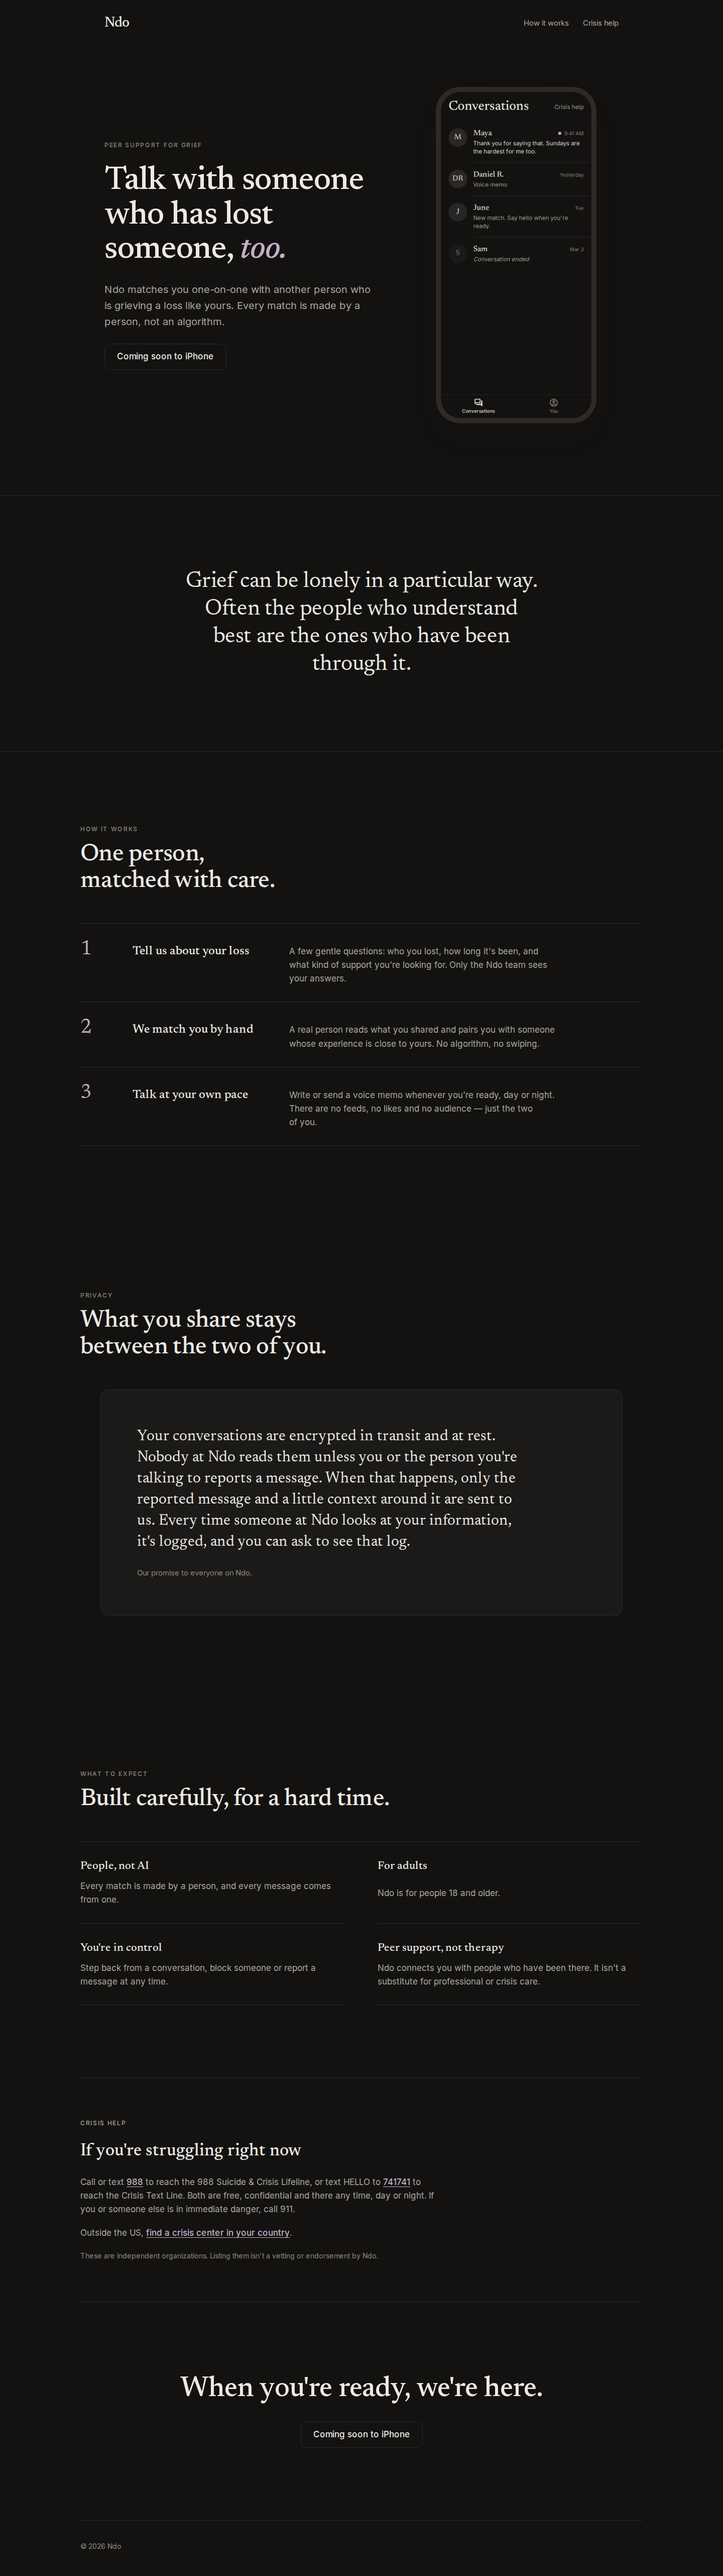
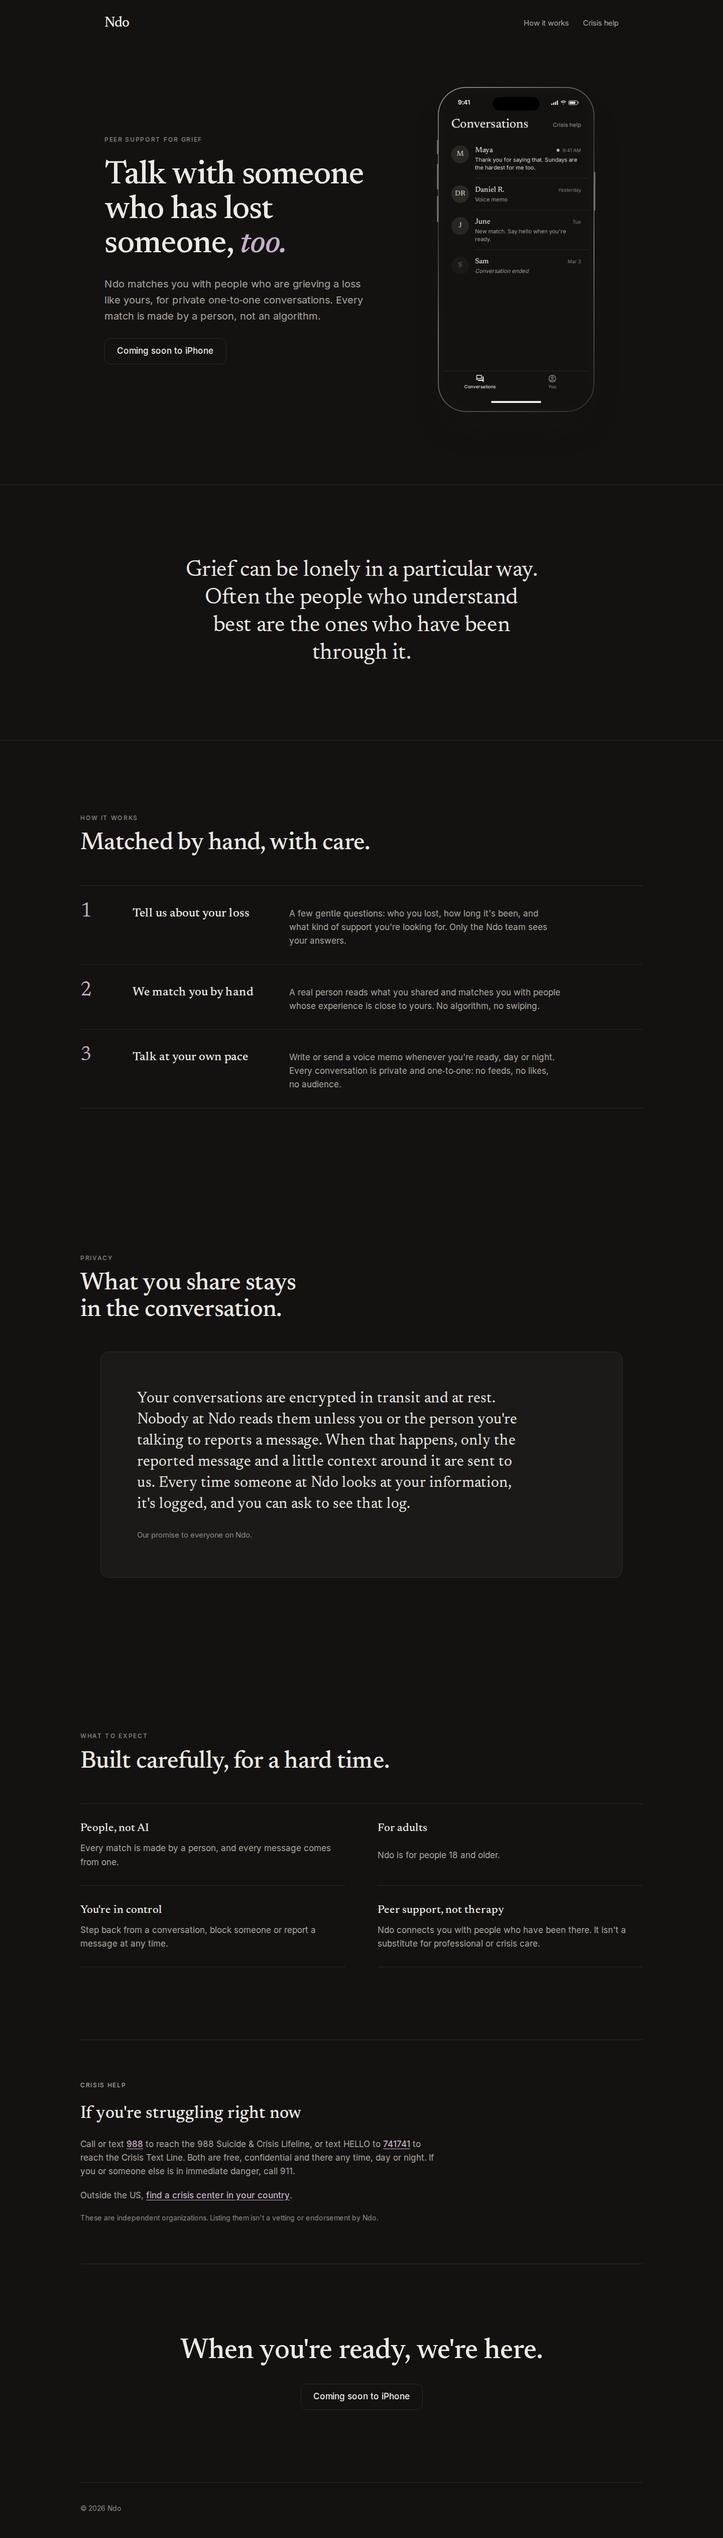
Landing page: iPhone frame and several-matches wording
- Show the app in a CSS iPhone frame (Dynamic Island, status bar, side
  buttons, home indicator) instead of a plain rounded slab. App captures are
  now 390 x 763 so the status bar and home indicator don't cover the app.
- Copy no longer implies you're matched with only one person: each
  conversation is one-to-one, but you can be matched with several people.

Claude-Session: https://claude.ai/code/session_012wpWnDNLDnNQM6JjDCQXRp

diff --git a/web/src/app/globals.css b/web/src/app/globals.css
@@ -250,19 +250,167 @@ img {
   letter-spacing: -0.02em;
 }
 
-.phone {
+/* iPhone frame (see components/IPhone.tsx). 390 x 844 pt screen: 47 pt status
+   bar, 763 pt of app, 34 pt home indicator. Inner sizes use cqw of the
+   screen, so 1pt = 100/390 cqw. */
+
+.iphone {
+  position: relative;
   justify-self: center;
-  width: min(100%, 20rem);
+  width: min(100%, 19.5rem);
   padding: 0.625rem;
-  border-radius: 3rem;
-  background: var(--phone-frame);
+  border: 2px solid transparent;
+  border-radius: 3.5rem;
+  background:
+    linear-gradient(#141312, #141312) padding-box,
+    linear-gradient(150deg, #8f8a83, #3b3834 35%, #77726b 60%, #2e2c29) border-box;
   box-shadow:
-    0 1px 2px rgba(28, 27, 25, 0.08),
-    0 30px 60px -20px rgba(28, 27, 25, 0.25);
+    0 1px 2px rgba(28, 27, 25, 0.1),
+    0 40px 70px -30px rgba(28, 27, 25, 0.35);
 }
 
-.phone img {
-  border-radius: 2.4rem;
+.iphone-button {
+  position: absolute;
+  width: 3px;
+  border-radius: 2px;
+  background: linear-gradient(90deg, #4d4944, #8f8a83);
+}
+
+.iphone-action,
+.iphone-volume-up,
+.iphone-volume-down {
+  left: -4px;
+}
+
+.iphone-action {
+  top: 16%;
+  height: 4.5%;
+}
+
+.iphone-volume-up {
+  top: 23.5%;
+  height: 8%;
+}
+
+.iphone-volume-down {
+  top: 33.5%;
+  height: 8%;
+}
+
+.iphone-power {
+  right: -4px;
+  top: 26%;
+  height: 12%;
+  background: linear-gradient(270deg, #4d4944, #8f8a83);
+}
+
+.iphone-screen {
+  container-type: inline-size;
+  position: relative;
+  display: flex;
+  flex-direction: column;
+  aspect-ratio: 390 / 844;
+  overflow: hidden;
+  border-radius: 2.8rem;
+  background: var(--paper);
+}
+
+.iphone-status {
+  position: relative;
+  flex: 0 0 12.05cqw;
+  display: flex;
+  align-items: center;
+  justify-content: space-between;
+  padding: 1.6cqw 7.4cqw 0 9.6cqw;
+  color: var(--ink);
+}
+
+.iphone-time {
+  font-family: -apple-system, BlinkMacSystemFont, "SF Pro Text", var(--sans);
+  font-size: 4.35cqw;
+  font-weight: 600;
+  letter-spacing: -0.01em;
+}
+
+.iphone-island {
+  position: absolute;
+  top: 2.8cqw;
+  left: 50%;
+  width: 32.3cqw;
+  height: 9.5cqw;
+  transform: translateX(-50%);
+  border-radius: 999px;
+  background: #000;
+}
+
+.iphone-indicators {
+  display: flex;
+  align-items: center;
+  gap: 1.4cqw;
+}
+
+.iphone-indicators svg {
+  height: 3.1cqw;
+  fill: currentColor;
+}
+
+.iphone-signal {
+  width: 4.6cqw;
+}
+
+.iphone-wifi {
+  width: 4.2cqw;
+}
+
+.iphone-battery {
+  position: relative;
+  width: 6.6cqw;
+  height: 3.2cqw;
+  padding: 0.35cqw;
+  border: 1px solid currentColor;
+  border-radius: 1cqw;
+  opacity: 0.9;
+}
+
+.iphone-battery::after {
+  content: "";
+  position: absolute;
+  right: -1cqw;
+  top: 50%;
+  width: 0.6cqw;
+  height: 1.2cqw;
+  transform: translateY(-50%);
+  border-radius: 0 0.4cqw 0.4cqw 0;
+  background: currentColor;
+  opacity: 0.5;
+}
+
+.iphone-battery-level {
+  display: block;
+  width: 80%;
+  height: 100%;
+  border-radius: 0.5cqw;
+  background: currentColor;
+}
+
+.iphone-content {
+  flex: 1;
+  min-height: 0;
+}
+
+.iphone-home {
+  flex: 0 0 8.72cqw;
+  display: flex;
+  align-items: flex-end;
+  justify-content: center;
+  padding-bottom: 2.1cqw;
+}
+
+.iphone-home-bar {
+  width: 34.4cqw;
+  height: 1.3cqw;
+  border-radius: 999px;
+  background: var(--ink);
 }
 
 .only-dark {

diff --git a/web/src/app/page.tsx b/web/src/app/page.tsx
@@ -1,5 +1,6 @@
 import Image from "next/image";
 import Link from "next/link";
+import { IPhone } from "@/components/IPhone";
 import appHome from "../../public/app-home.png";
 import appHomeDark from "../../public/app-home-dark.png";
 
@@ -17,11 +18,11 @@ const steps = [
   },
   {
     title: "We match you by hand",
-    body: "A real person reads what you shared and pairs you with someone whose experience is close to yours. No algorithm, no swiping.",
+    body: "A real person reads what you shared and matches you with people whose experience is close to yours. No algorithm, no swiping.",
   },
   {
     title: "Talk at your own pace",
-    body: "Write or send a voice memo whenever you're ready, day or night. There are no feeds, no likes and no audience — just the two of you.",
+    body: "Write or send a voice memo whenever you're ready, day or night. Every conversation is private and one‑to‑one: no feeds, no likes, no audience.",
   },
 ];
 
@@ -87,13 +88,13 @@ export default function Home() {
               <span className="accent-italic">too.</span>
             </h1>
             <p className="lede">
-              Ndo matches you one-on-one with another person who is grieving a
-              loss like yours. Every match is made by a person, not an
-              algorithm.
+              Ndo matches you with people who are grieving a loss like yours,
+              for private one‑to‑one conversations. Every match is made by a
+              person, not an algorithm.
             </p>
             <GetTheApp />
           </div>
-          <div className="phone">
+          <IPhone>
             {/* Light and dark captures of the app; CSS shows the one that
                 matches the reader's color scheme. */}
             <Image
@@ -109,7 +110,7 @@ export default function Home() {
               alt="The Ndo app: a quiet list of conversations with the people you've been matched with."
               sizes="(min-width: 60rem) 20rem, 80vw"
             />
-          </div>
+          </IPhone>
         </section>
 
         <section className="statement" aria-label="Why Ndo">
@@ -124,7 +125,7 @@ export default function Home() {
         <section className="wrap section" id="how" aria-labelledby="how-title">
           <div className="section-head">
             <p className="eyebrow">How it works</p>
-            <h2 id="how-title">One person, matched with care.</h2>
+            <h2 id="how-title">Matched by hand, with care.</h2>
           </div>
           <ol className="steps">
             {steps.map((step, i) => (
@@ -142,7 +143,7 @@ export default function Home() {
         <section className="wrap section" aria-labelledby="privacy-title">
           <div className="section-head">
             <p className="eyebrow">Privacy</p>
-            <h2 id="privacy-title">What you share stays between the two of you.</h2>
+            <h2 id="privacy-title">What you share stays in the conversation.</h2>
           </div>
           <figure className="promise">
             <blockquote>{PROMISE}</blockquote>

diff --git a/web/src/components/IPhone.tsx b/web/src/components/IPhone.tsx
@@ -1,0 +1,40 @@
+import type { ReactNode } from "react";
+
+// An iPhone frame (iPhone 15/16 proportions, 390 x 844 pt screen) drawn in
+// CSS: titanium band, side buttons, Dynamic Island, status bar and home
+// indicator. `children` fills the 390 x 763 area between the status bar and
+// the home indicator. Sizes are in container units, so it scales cleanly.
+export function IPhone({ children }: { children: ReactNode }) {
+  return (
+    <div className="iphone">
+      <span className="iphone-button iphone-action" />
+      <span className="iphone-button iphone-volume-up" />
+      <span className="iphone-button iphone-volume-down" />
+      <span className="iphone-button iphone-power" />
+      <div className="iphone-screen">
+        <div className="iphone-status" aria-hidden="true">
+          <span className="iphone-time">9:41</span>
+          <span className="iphone-island" />
+          <span className="iphone-indicators">
+            <svg viewBox="0 0 18 12" className="iphone-signal">
+              <rect x="0" y="8" width="3" height="4" rx="0.8" />
+              <rect x="5" y="5.5" width="3" height="6.5" rx="0.8" />
+              <rect x="10" y="3" width="3" height="9" rx="0.8" />
+              <rect x="15" y="0" width="3" height="12" rx="0.8" />
+            </svg>
+            <svg viewBox="0 0 16 12" className="iphone-wifi">
+              <path d="M8 2.2c2.4 0 4.6.9 6.3 2.5l1.2-1.3A10.7 10.7 0 0 0 8 .4 10.7 10.7 0 0 0 .5 3.4l1.2 1.3A9 9 0 0 1 8 2.2Zm0 3.6c1.4 0 2.8.5 3.8 1.5l1.2-1.3A7.2 7.2 0 0 0 8 4a7.2 7.2 0 0 0-5 2l1.2 1.3c1-1 2.4-1.5 3.8-1.5Zm0 3.6c.5 0 1 .2 1.3.5L8 11.6 6.7 9.9c.3-.3.8-.5 1.3-.5Z" />
+            </svg>
+            <span className="iphone-battery">
+              <span className="iphone-battery-level" />
+            </span>
+          </span>
+        </div>
+        <div className="iphone-content">{children}</div>
+        <div className="iphone-home" aria-hidden="true">
+          <span className="iphone-home-bar" />
+        </div>
+      </div>
+    </div>
+  );
+}

diff --git a/web/src/app/layout.tsx b/web/src/app/layout.tsx
@@ -17,7 +17,7 @@ const inter = Inter({
 export const metadata: Metadata = {
   title: "Ndo — Talk with someone who has lost someone, too",
   description:
-    "Ndo matches you one-on-one with another person who is grieving a loss like yours. Every match is made by a person, not an algorithm.",
+    "Ndo matches you with people who are grieving a loss like yours, for private one-to-one conversations. Every match is made by a person, not an algorithm.",
 };
 
 export const viewport: Viewport = {
